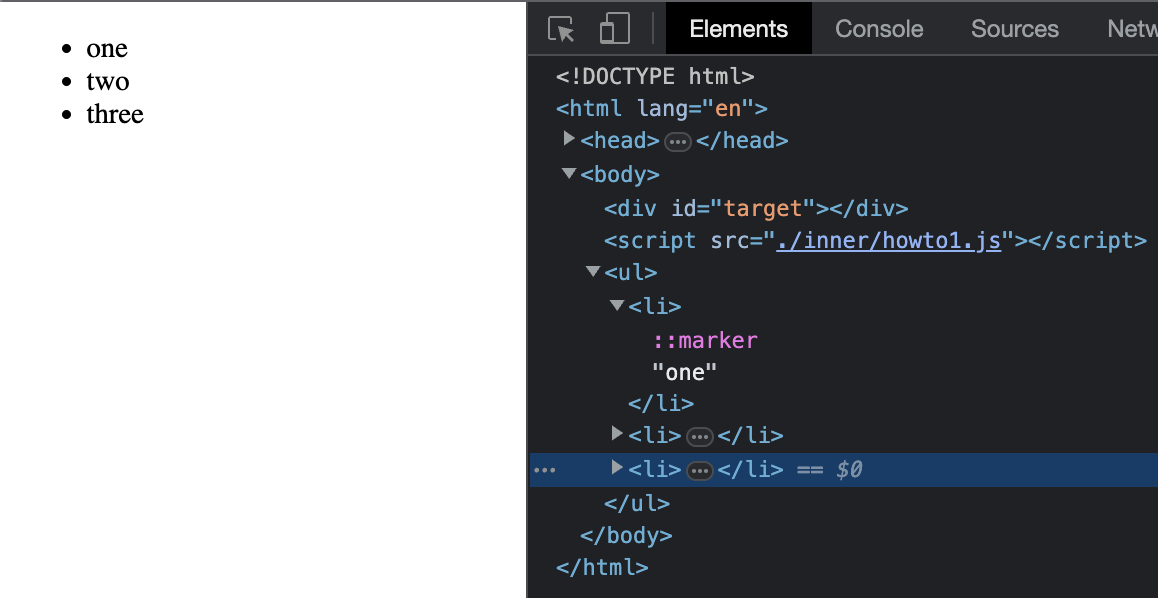
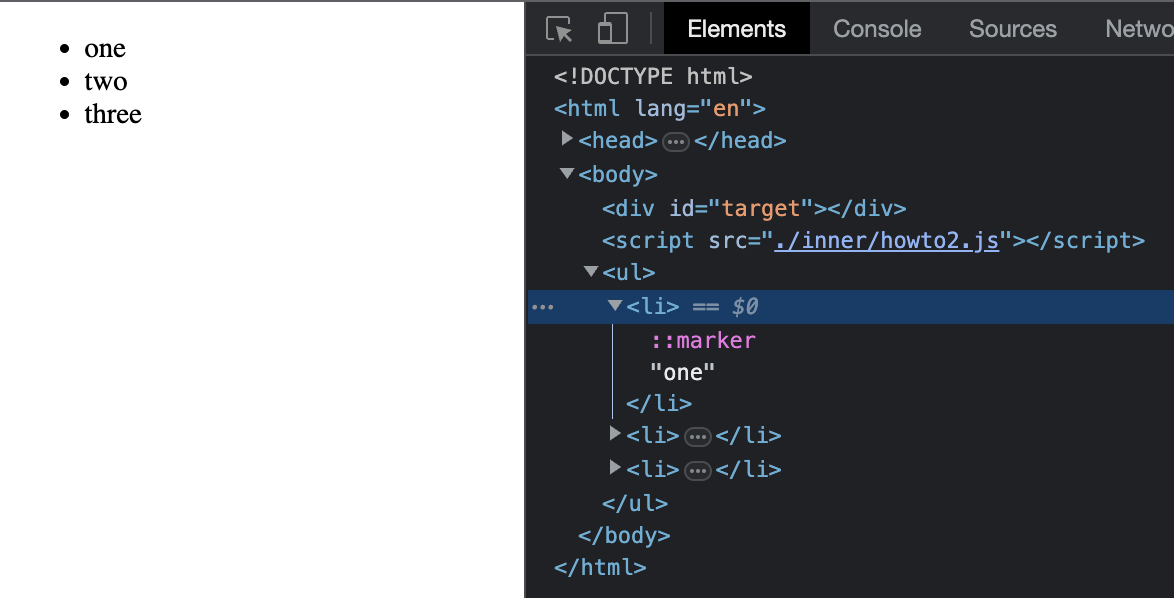
move

Changed region(s): [[0.4352, 0.0, 1.0, 1.0], [0.0311, 0.0602, 0.1244, 0.1505], [0.0311, 0.1806, 0.1244, 0.2107]]

diff --git a/source/sample/inner/howto1.js b/source/sample/inner/howto1.js
@@ -1,10 +1,5 @@
 window.onload = function() {
     hokuto.render({
-        tag: 'ul',
-        children: [
-          { tag: 'li', text: 'one'},
-          { tag: 'li', text: 'two'},
-          { tag: 'li', text: 'three'},
-        ]
-      })
+        text : 'Hello world'
+    })
 }

diff --git a/source/sample/inner/howto2.js b/source/sample/inner/howto2.js
@@ -1,0 +1,10 @@
+window.onload = function() {
+    hokuto.render({
+        tag: 'ul',
+        children: [
+          { tag: 'li', text: 'one'},
+          { tag: 'li', text: 'two'},
+          { tag: 'li', text: 'three'},
+        ]
+      })
+}

diff --git a/source/sample/index2.html b/source/sample/index2.html
@@ -7,6 +7,6 @@
 </head>
 <body>
     <div id="target"></div>
-    <script src="./inner/howto1.js"></script>
+    <script src="./inner/howto2.js"></script>
 </body>
 </html>

diff --git a/README.md b/README.md
@@ -17,6 +17,7 @@ Hokuto exposes one single object named `hokuto` which allows you first to render
 
 First let's see how to _salute our world_
 
+`inner/howto1.js`
 ``` js
 hokuto.render({
   text: 'Hello world'
@@ -36,6 +37,8 @@ Before proceeding I need to give a sneak peeck of what was passed to the _render
 - children: an array of other Unodes
 
 let's make a simple example to clarify:
+
+`inner/howto2.js`
 ``` js
 hokuto.render({
   tag: 'ul',
@@ -56,7 +59,7 @@ Ad you can see in the html there's a _div#target_ which comes originally from th
 ``` html
 <body>
     <div id="target"></div>
-    <script src="./inner/howto1.js"></script>
+    <script src="./inner/howto2.js"></script>
 </body>
 ```
 and this element is neither removed neither used as target (indeed the default target is the `document.body` and we are not passing _target_ to the root node config)
